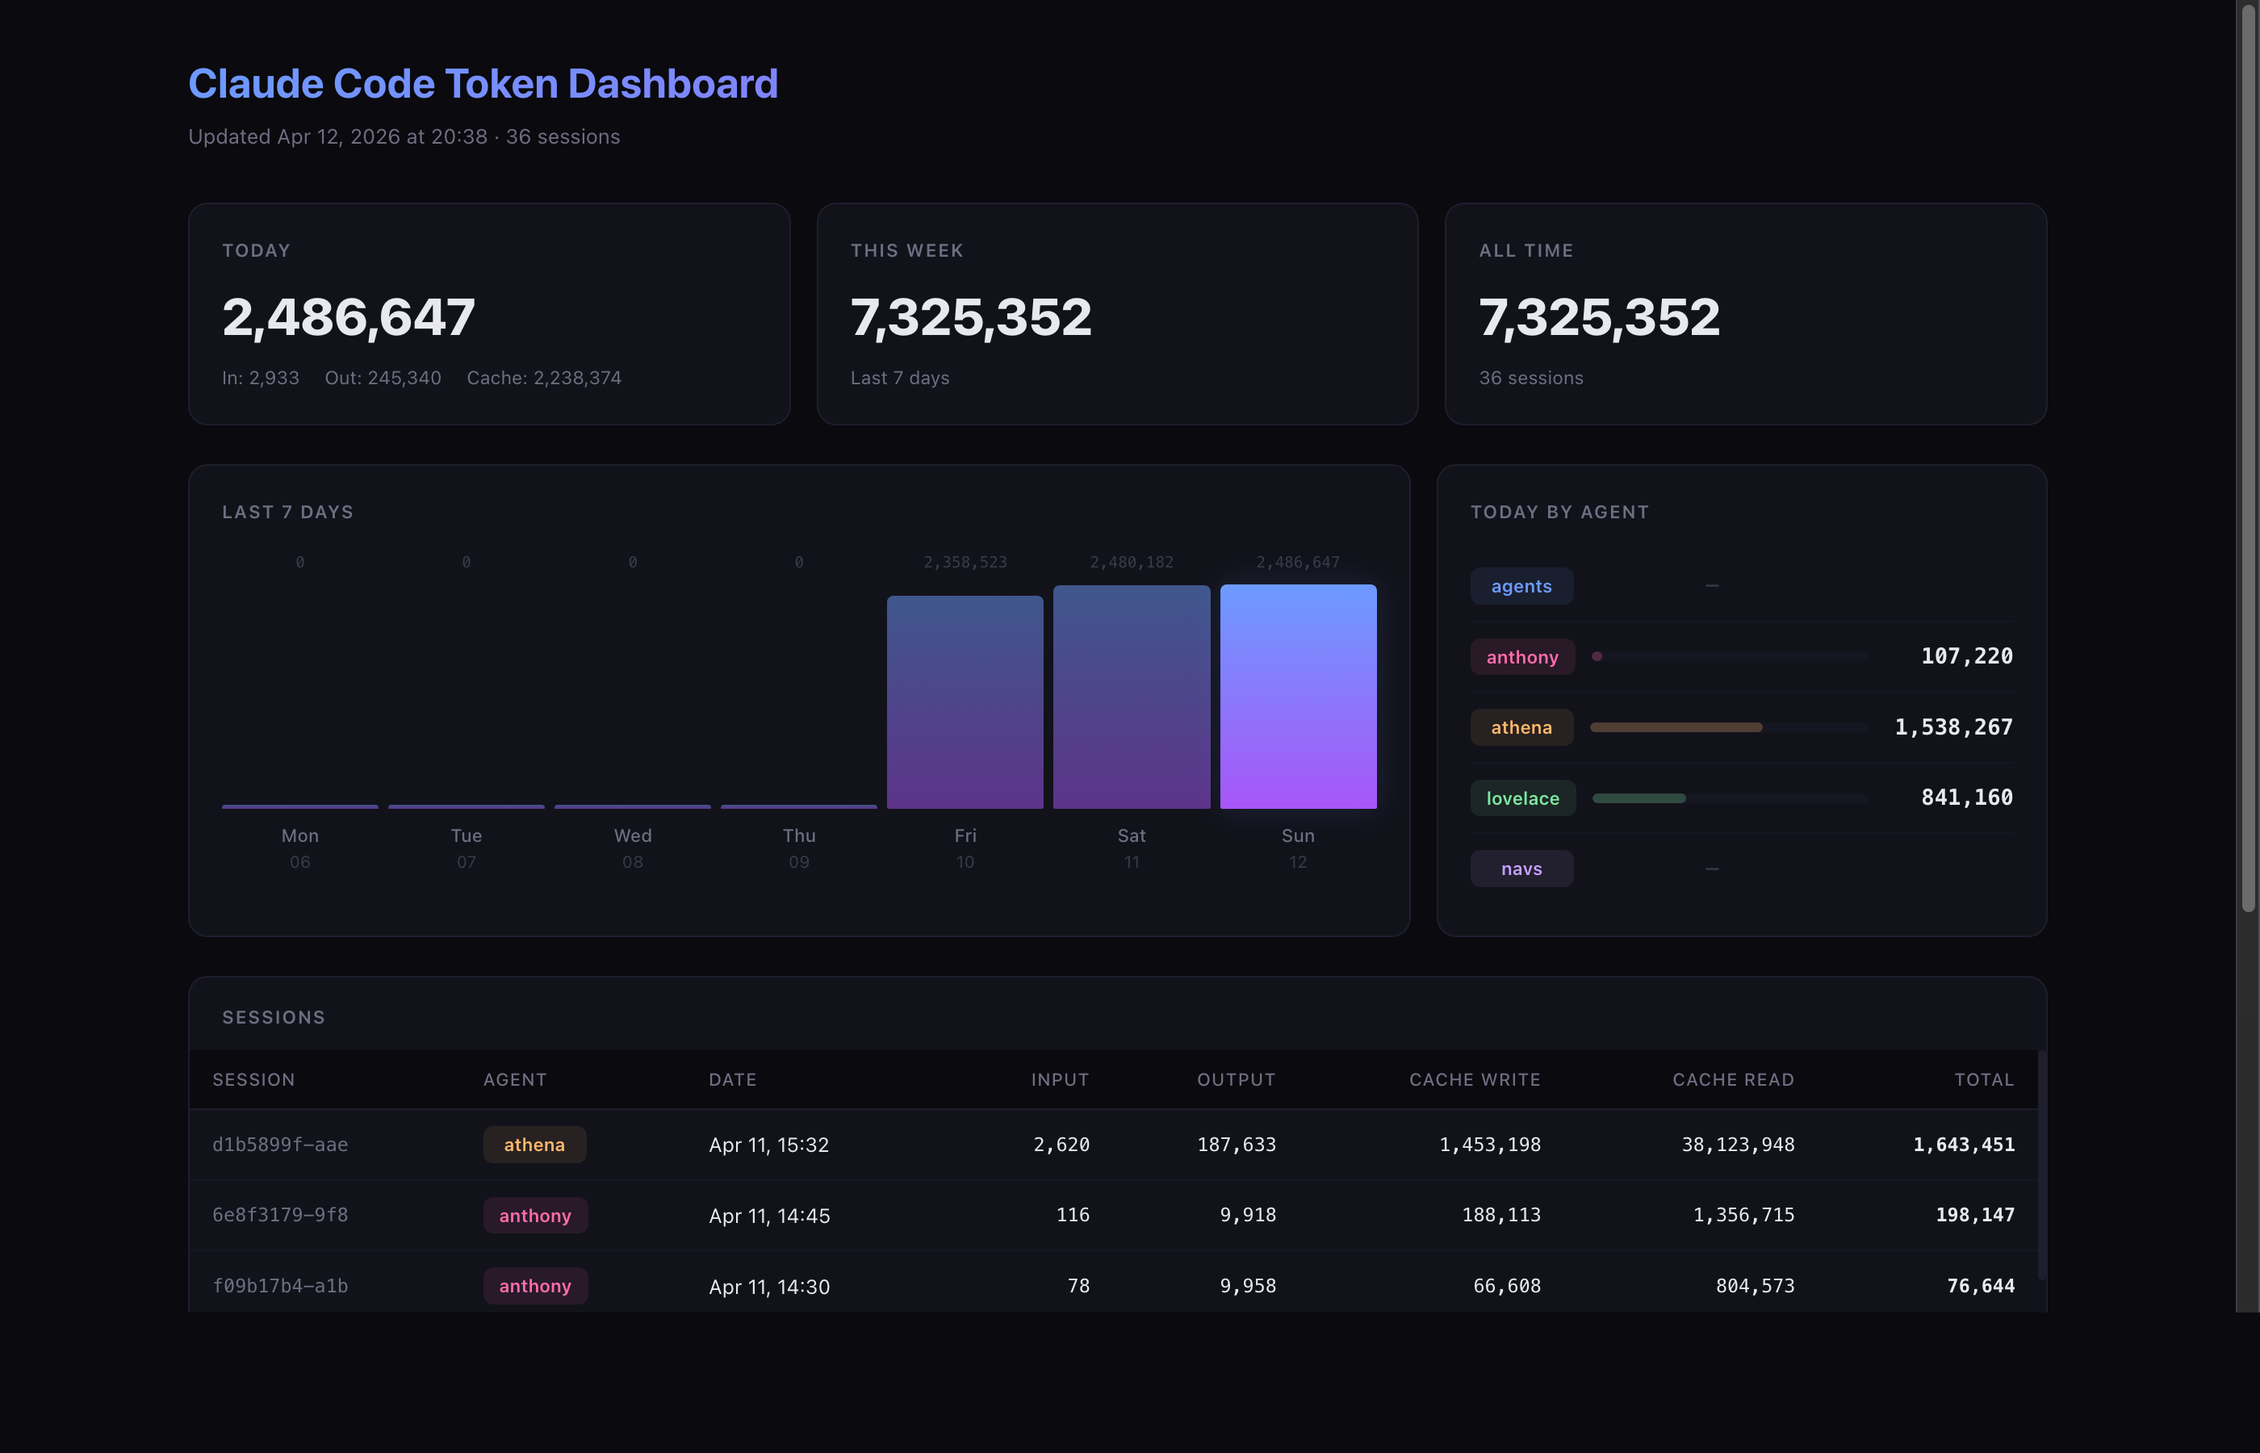
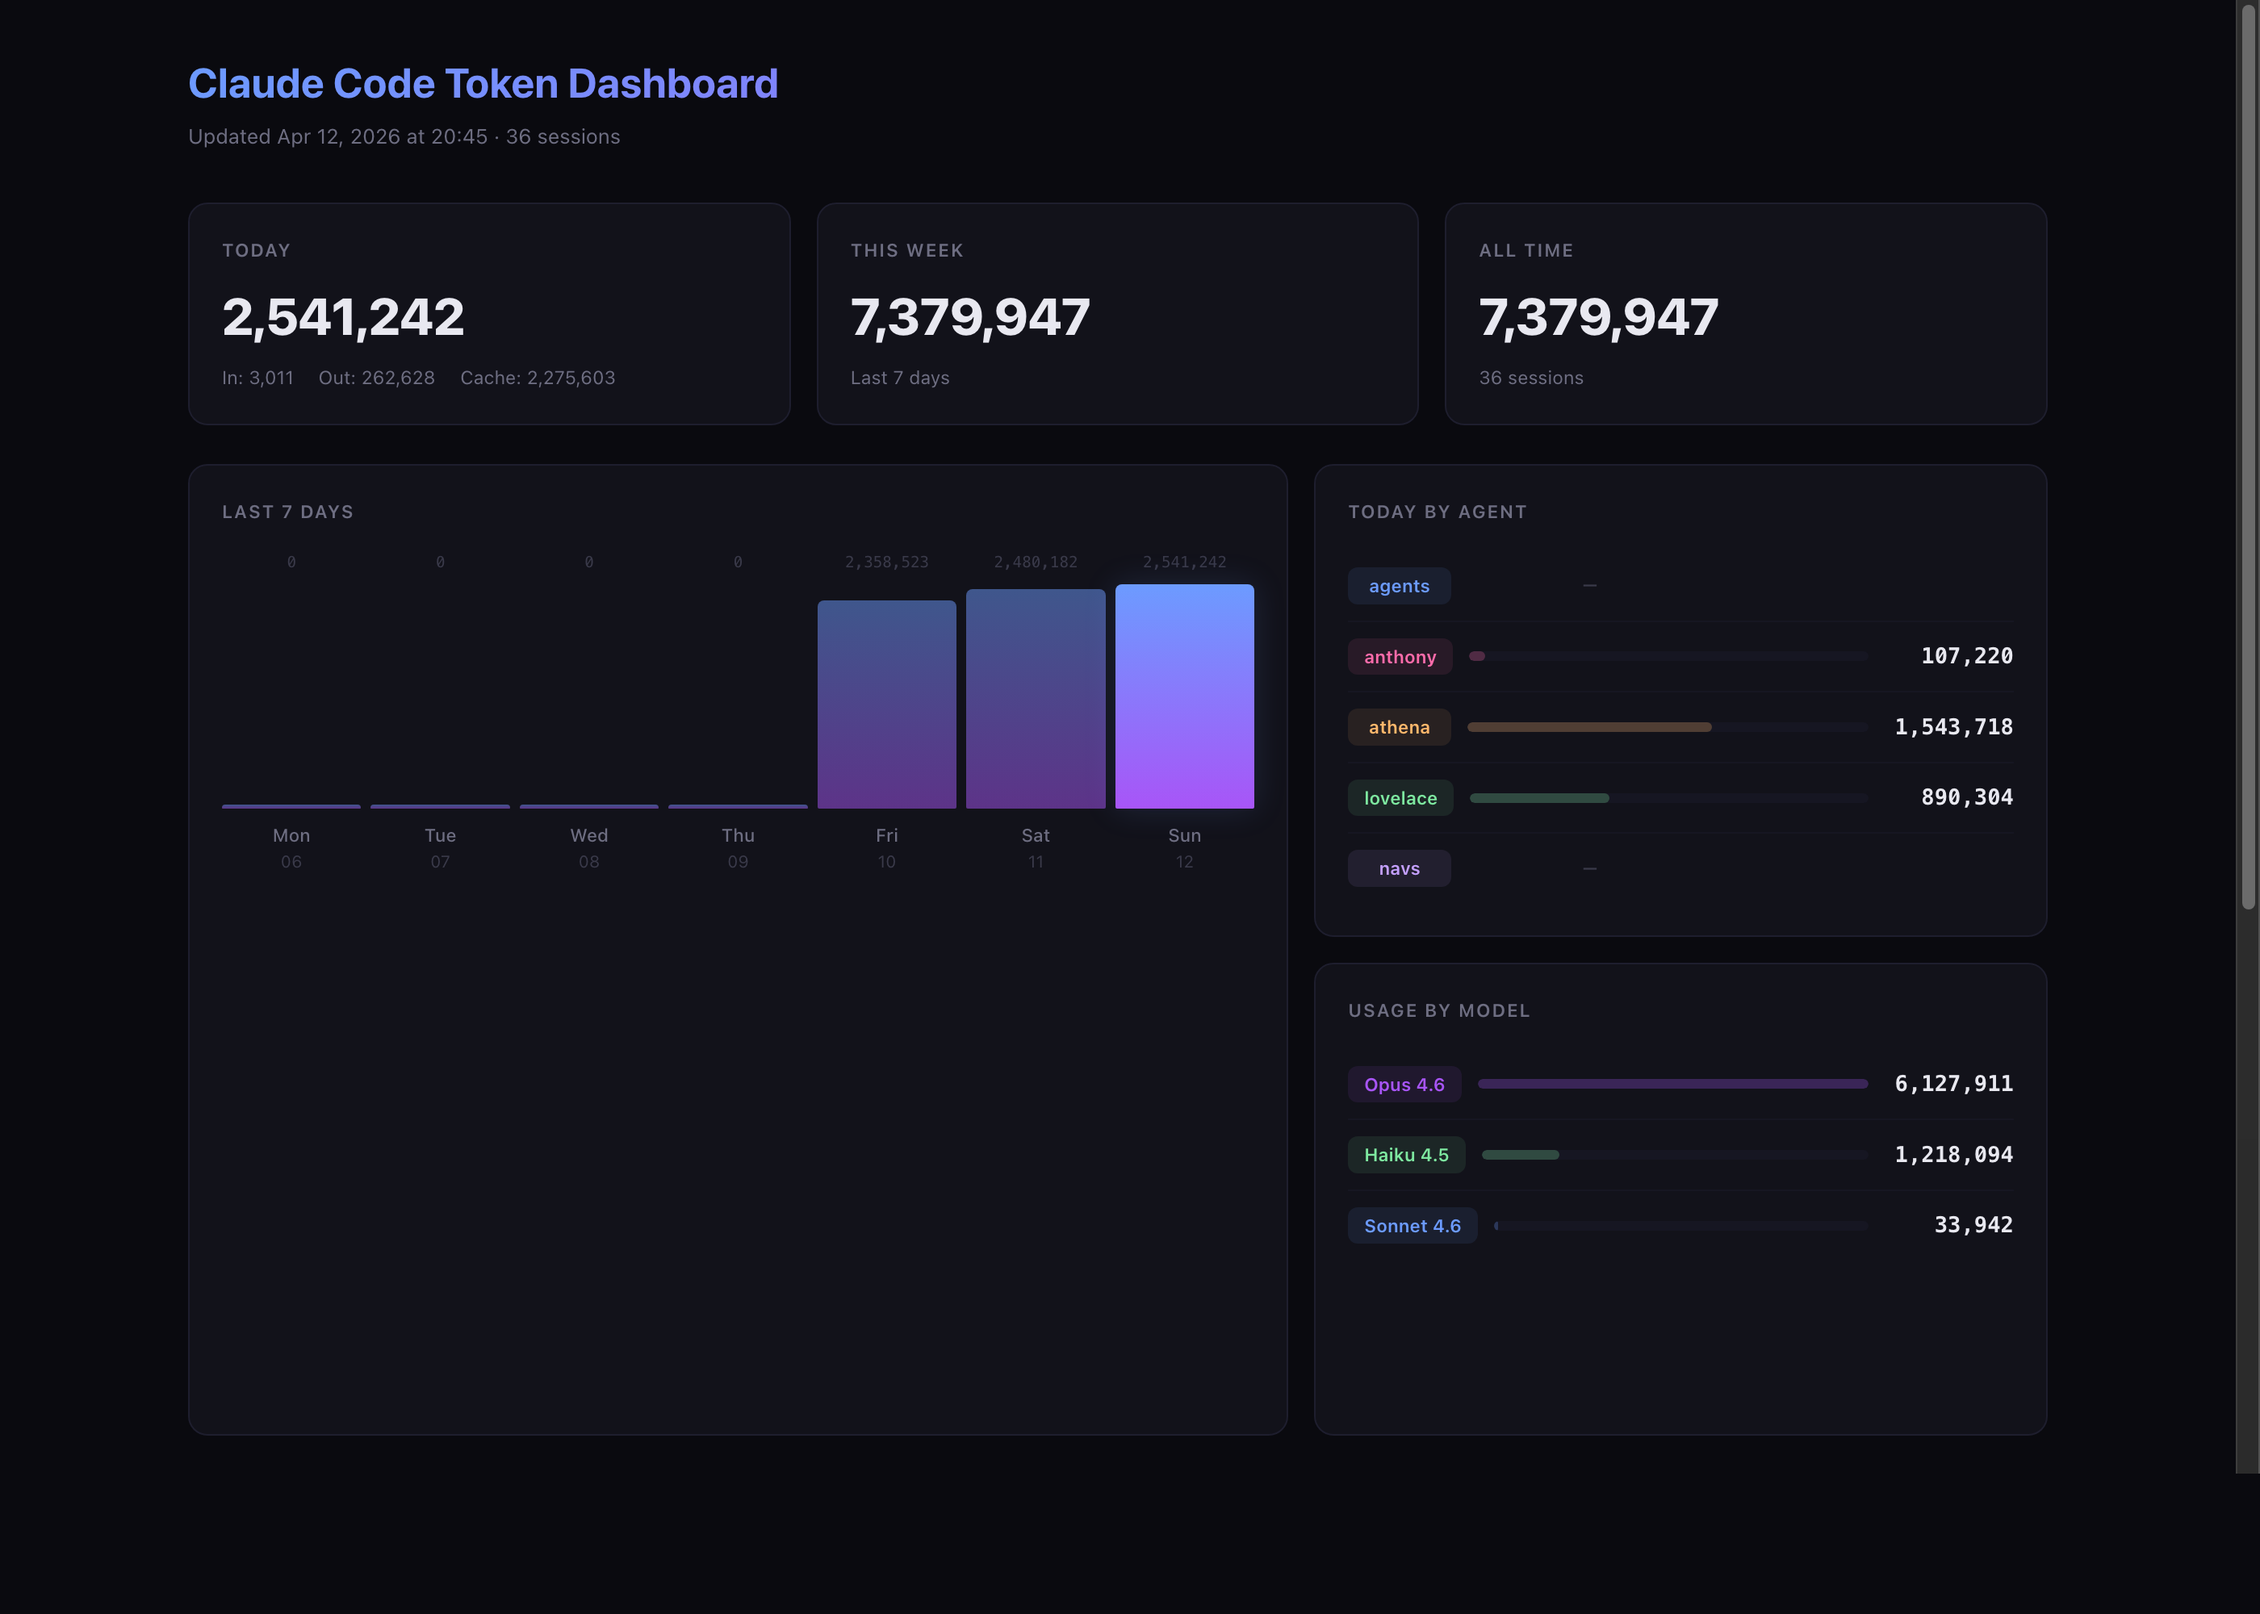
Add model breakdown and model column to session table
Parses message.model from JSONL entries. Shows:
- "Usage by Model" card with proportional bars (Opus purple,
  Sonnet blue, Haiku green)
- Model column in session table showing primary model per session
- Short model names (claude-opus-4-6 -> Opus 4.6)

diff --git a/dashboard.py b/dashboard.py
@@ -89,6 +89,7 @@ def parse_jsonl_file(filepath):
                     "cache_read_input_tokens": usage.get("cache_read_input_tokens", 0),
                     "output_tokens": usage.get("output_tokens", 0),
                     "timestamp": data.get("timestamp", ts),
+                    "model": msg.get("model", ""),
                 })
     except (IOError, OSError):
         pass
@@ -120,6 +121,7 @@ def collect_all_data():
         "first_timestamp": None,
         "last_timestamp": None,
         "entries": [],
+        "models": defaultdict(int),
     })
 
     for filepath in files:
@@ -139,6 +141,8 @@ def collect_all_data():
             session["cache_creation_input_tokens"] += entry["cache_creation_input_tokens"]
             session["cache_read_input_tokens"] += entry["cache_read_input_tokens"]
             session["output_tokens"] += entry["output_tokens"]
+            if entry.get("model"):
+                session["models"][entry["model"]] += 1
 
             et = parse_timestamp(entry.get("timestamp"))
             if et:
@@ -218,6 +222,17 @@ def generate_html(sessions):
             all_time[k] += d[k]
     all_time_total = all_time["input_tokens"] + all_time["output_tokens"] + all_time["cache_creation_input_tokens"]
 
+    # Model breakdown (all-time)
+    model_totals = defaultdict(lambda: {"input_tokens": 0, "output_tokens": 0, "cache_creation_input_tokens": 0, "count": 0})
+    for sid, s in sorted_sessions:
+        for entry in s.get("entries", []):
+            model = entry.get("model", "")
+            if model:
+                model_totals[model]["input_tokens"] += entry["input_tokens"]
+                model_totals[model]["output_tokens"] += entry["output_tokens"]
+                model_totals[model]["cache_creation_input_tokens"] += entry["cache_creation_input_tokens"]
+                model_totals[model]["count"] += 1
+
     # Discover all agents
     all_agents = sorted(set(s["agent"] for _, s in sorted_sessions))
 
@@ -233,6 +248,50 @@ def generate_html(sessions):
         safe = agent.replace(" ", "-").replace("/", "-")
         agent_css += f"    .agent-{safe} {{ background: {color}18; color: {color}; }}\n"
 
+    # Model color mapping
+    model_palette = {"opus": "#a855f7", "sonnet": "#6c9bff", "haiku": "#7ee8a0"}
+    def model_color(name):
+        for key, color in model_palette.items():
+            if key in name:
+                return color
+        return "#8a8a9a"
+
+    def model_short(name):
+        """Shorten model ID to a readable name."""
+        if not name:
+            return "—"
+        # claude-opus-4-6 -> Opus 4.6, claude-sonnet-4-6 -> Sonnet 4.6
+        parts = name.replace("claude-", "").split("-")
+        if len(parts) >= 3 and parts[1].isdigit():
+            return f"{parts[0].title()} {parts[1]}.{parts[2]}"
+        if len(parts) >= 2:
+            return f"{parts[0].title()}"
+        return name
+
+    # Build model CSS
+    model_css = ""
+    for model_name in model_totals:
+        safe = model_name.replace("-", "_").replace(".", "_")
+        color = model_color(model_name)
+        model_css += f"    .model-{safe} {{ background: {color}18; color: {color}; }}\n"
+
+    # Build model breakdown rows
+    model_rows = ""
+    sorted_models = sorted(model_totals.items(), key=lambda x: x[1]["input_tokens"] + x[1]["output_tokens"] + x[1]["cache_creation_input_tokens"], reverse=True)
+    max_model_total = max((m[1]["input_tokens"] + m[1]["output_tokens"] + m[1]["cache_creation_input_tokens"] for m in sorted_models), default=1) or 1
+    for model_name, m in sorted_models:
+        total = m["input_tokens"] + m["output_tokens"] + m["cache_creation_input_tokens"]
+        bar_w = min((total / max_model_total) * 100, 100)
+        color = model_color(model_name)
+        safe = model_name.replace("-", "_").replace(".", "_")
+        model_rows += f"""<div class="agent-row">
+            <span class="badge model-{safe}">{model_short(model_name)}</span>
+            <div class="agent-bar-wrap">
+                <div class="agent-bar" style="width: {bar_w:.0f}%; background: {color}40;"></div>
+            </div>
+            <span class="agent-total">{fmt(total)}</span>
+        </div>"""
+
     # Session rows
     session_rows = ""
     for sid, s in sorted_sessions:
@@ -243,9 +302,13 @@ def generate_html(sessions):
         day = ts_local.date() if ts_local else None
         is_today = ' class="today"' if day == today else ""
         safe_agent = s["agent"].replace(" ", "-").replace("/", "-")
+        # Primary model = most frequently used in this session
+        primary_model = max(s["models"], key=s["models"].get) if s["models"] else ""
+        model_safe = primary_model.replace("-", "_").replace(".", "_")
         session_rows += f"""<tr{is_today}>
             <td class="mono">{sid[:12]}</td>
             <td><span class="badge agent-{safe_agent}">{s['agent']}</span></td>
+            <td><span class="badge model-{model_safe}">{model_short(primary_model)}</span></td>
             <td>{date_str}</td>
             <td class="num">{fmt(s['input_tokens'])}</td>
             <td class="num">{fmt(s['output_tokens'])}</td>
@@ -386,9 +449,14 @@ def generate_html(sessions):
     /* Main Grid */
     .main-grid {{
         display: grid;
-        grid-template-columns: 2fr 1fr;
+        grid-template-columns: 3fr 2fr;
         gap: 16px;
         margin-bottom: 24px;
+    }}
+    .side-grid {{
+        display: grid;
+        grid-template-rows: 1fr 1fr;
+        gap: 16px;
     }}
     .card {{
         background: var(--bg-card);
@@ -497,6 +565,7 @@ def generate_html(sessions):
         white-space: nowrap;
     }}
 {agent_css}
+{model_css}
 
     /* Sessions Table */
     .table-card {{
@@ -590,9 +659,15 @@ def generate_html(sessions):
                 {chart_bars}
             </div>
         </div>
-        <div class="card">
-            <div class="card-title">Today by Agent</div>
-            {agent_rows if agent_rows else '<div class="dim" style="padding: 20px 0; text-align: center;">No usage today</div>'}
+        <div class="side-grid">
+            <div class="card">
+                <div class="card-title">Today by Agent</div>
+                {agent_rows if agent_rows else '<div class="dim" style="padding: 20px 0; text-align: center;">No usage today</div>'}
+            </div>
+            <div class="card">
+                <div class="card-title">Usage by Model</div>
+                {model_rows if model_rows else '<div class="dim" style="padding: 20px 0; text-align: center;">No data</div>'}
+            </div>
         </div>
     </div>
 
@@ -606,6 +681,7 @@ def generate_html(sessions):
                     <tr>
                         <th>Session</th>
                         <th>Agent</th>
+                        <th>Model</th>
                         <th>Date</th>
                         <th style="text-align:right">Input</th>
                         <th style="text-align:right">Output</th>
